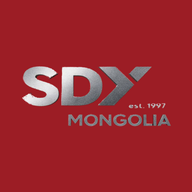
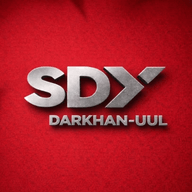
feat(sdy): SDY Darkhan-Uul mark and a red, edge-to-edge member app
- New mark: brand/sdy-darkhan-uul.jpg is the source; logo, icons and the
  maskable icon are square crops centred on the lettering, and the wordmark
  is the silver lettering keyed off the red onto transparency. Same file
  names, so BRAND_* settings are unchanged.
- Member app and sign-in palette: graphite neutrals with the logo red as the
  one accent, in light and dark (white on the dark-mode red is 4.6:1). The
  Tailwind tokens resolve to these variables, so every member screen follows.
- Layout: the sidebar sits against the window instead of floating inside a
  centred 1536px column; content grows from 720px to 960px (>=1440) and
  1120px (>=1680) while forms keep 720px; organisation cards are a
  two-column grid with the current branch marked.
- Header: red top rule and the mark as a 40px tile; the name truncates to one
  line on phones instead of wrapping to three.
- Sign-in instruction text is muted rather than accent, which read as an
  error once the accent became red.

diff --git a/frontend/components/membership/member.css b/frontend/components/membership/member.css
@@ -1,20 +1,27 @@
 /* Gerege Design Research 00/08/11/14: touch controls 44, form width 720,
-   card padding 16/24, radius 6/8, neutral surfaces and one accent. */
+   card padding 16/24, radius 6/8, neutral surfaces and one accent.
+   SDY: the accent is the red of the SDY Darkhan-Uul mark (#9c1d25 family) and
+   the neutrals are graphite rather than the platform's navy, so the member
+   app reads as the union's own rather than as the platform underneath. The
+   Tailwind tokens (accent, surface, line, muted…) resolve to these variables,
+   so every member screen follows without touching its markup. */
 .sdy-member-shell {
-  --gerege-bg: hsl(0 0% 100%);
+  --gerege-bg: hsl(240 5% 98%);
   --gerege-surface: hsl(0 0% 100%);
-  --gerege-surface-2: hsl(210 40% 96%);
-  --gerege-chrome: hsl(210 40% 98%);
-  --gerege-fg: hsl(222 47% 11%);
-  --gerege-muted: hsl(215 19% 35%);
-  --gerege-fg-subtle: hsl(215 16% 45%);
-  --gerege-border: hsl(214 32% 91%);
-  --gerege-border-input: hsl(215 16% 55%);
-  --gerege-blue: hsl(238 50% 49%);
+  --gerege-surface-2: hsl(240 5% 95%);
+  --gerege-chrome: hsl(0 0% 100%);
+  --gerege-fg: hsl(240 10% 10%);
+  --gerege-muted: hsl(240 4% 34%);
+  --gerege-fg-subtle: hsl(240 4% 44%);
+  --gerege-border: hsl(240 6% 89%);
+  --gerege-border-input: hsl(240 4% 55%);
+  --gerege-blue: hsl(356 72% 40%);
   --gerege-on-blue: hsl(0 0% 100%);
-  --gerege-blue-soft: hsl(232 100% 97%);
-  --gerege-ring: hsl(238 55% 58%);
-  --gerege-surface-hover: hsl(210 40% 96%);
+  --gerege-blue-soft: hsl(356 85% 96%);
+  --gerege-ring: hsl(356 72% 46%);
+  --gerege-surface-hover: hsl(240 5% 95%);
+  --sdy-silver: linear-gradient(180deg, hsl(220 10% 96%), hsl(220 6% 72%));
+  --sdy-sidebar-w: 264px;
   --sdy-text-caption: .75rem;
   --sdy-text-body: .875rem;
   --sdy-text-body-line: 1.5rem;
@@ -38,6 +45,8 @@
 .sdy-signin .signin-shell__nav { min-height:56px; padding:8px 24px; }
 .sdy-signin button { min-height:44px; border-radius:6px; }
 .sdy-signin .signin-btn--eid { color:var(--gerege-on-blue); }
+/* Instructions in the accent colour read as an error once the accent is red. */
+.sdy-signin .signin-instruction { color:var(--gerege-muted); }
 .sdy-signin .admin-login input { background:var(--gerege-surface); color:var(--gerege-fg); font-size:1rem; min-height:44px; }
 .sdy-signin .admin-login label { border-color:var(--gerege-border-input); border-radius:6px; }
 .sdy-signin .admin-login button { background:var(--gerege-surface); color:var(--gerege-fg); border:1px solid var(--gerege-border-input); }
@@ -47,36 +56,50 @@
 .sdy-signin :is(button,input,a):focus-visible { outline:2px solid var(--gerege-ring); outline-offset:2px; box-shadow:0 0 0 2px var(--gerege-bg); }
 @media(max-width:640px) { .sdy-signin .signin-shell__body { padding:24px 16px; } .sdy-signin .signin-card { padding:16px; } .sdy-signin .signin-shell__nav { padding-inline:16px; } }
 .dark .sdy-member-shell {
-  --gerege-bg: hsl(229 50% 6%); --gerege-chrome: hsl(222 47% 9%);
-  --gerege-surface: hsl(222 47% 11%); --gerege-surface-2: hsl(217 33% 13%);
-  --gerege-fg: hsl(210 40% 98%); --gerege-muted: hsl(213 27% 84%);
-  --gerege-fg-subtle: hsl(215 20% 65%); --gerege-border: hsl(217 33% 17%);
-  --gerege-border-input: hsl(215 16% 45%); --gerege-blue: hsl(238 60% 67%);
-  --gerege-on-blue: hsl(229 50% 6%); --gerege-blue-soft: hsl(238 50% 16%);
-  --gerege-ring: hsl(238 60% 67%); --gerege-surface-hover: hsl(217 33% 17%); color-scheme: dark;
+  --gerege-bg: hsl(240 6% 6%); --gerege-chrome: hsl(240 5% 8%);
+  --gerege-surface: hsl(240 5% 10%); --gerege-surface-2: hsl(240 4% 14%);
+  --gerege-fg: hsl(0 0% 97%); --gerege-muted: hsl(240 5% 76%);
+  --gerege-fg-subtle: hsl(240 4% 63%); --gerege-border: hsl(240 4% 18%);
+  --gerege-border-input: hsl(240 4% 42%); --gerege-blue: hsl(356 70% 52%);
+  --gerege-on-blue: hsl(0 0% 100%); --gerege-blue-soft: hsl(356 45% 15%);
+  --gerege-ring: hsl(356 80% 62%); --gerege-surface-hover: hsl(240 4% 14%); color-scheme: dark;
 }
-.sdy-member-header { position: sticky; top: 0; z-index: var(--z-sticky); display: flex; align-items: center; gap: 24px; min-height: 56px; padding: env(safe-area-inset-top) 24px 0; border-bottom: 1px solid var(--gerege-border); background: var(--gerege-bg); }
+.sdy-member-header { position: sticky; top: 0; z-index: var(--z-sticky); display: flex; align-items: center; gap: 24px; min-height: 64px; padding: env(safe-area-inset-top) 24px 0; border-top: 3px solid hsl(356 72% 40%); border-bottom: 1px solid var(--gerege-border); background: var(--gerege-chrome); }
 .sdy-member-header button,.sdy-member-header [role="menuitem"] { min-height: 44px; min-width: 44px; }
 .sdy-member-brand { display: flex; align-items: center; gap: 12px; min-width: 0; min-height: 44px; }
-.sdy-member-brand img { object-fit: contain; flex-shrink: 0; }
-.sdy-member-brand strong,.sdy-member-brand small { display: block; line-height: 1.25rem; }
-.sdy-member-brand strong { font-weight: 600; }
+.sdy-member-brand img { width: 40px; height: 40px; object-fit: cover; flex-shrink: 0; border-radius: 8px; box-shadow: 0 0 0 1px hsl(0 0% 0% / 8%); }
+.sdy-member-brand > span { min-width: 0; }
+.sdy-member-brand strong,.sdy-member-brand small { display: block; line-height: 1.25rem; overflow: hidden; text-overflow: ellipsis; white-space: nowrap; }
+.sdy-member-brand strong { font-weight: 700; letter-spacing: -.01em; }
 .sdy-member-brand small { color: var(--gerege-muted); font-size: var(--sdy-text-caption); }
 .sdy-header-organisation { display: flex; align-items: center; gap: 8px; min-width: 0; margin-left: auto; color: var(--gerege-muted); }
 .sdy-header-organisation span { overflow: hidden; text-overflow: ellipsis; white-space: nowrap; }
 .sdy-header-organisation svg { width: 16px; height: 16px; flex-shrink: 0; }
-.sdy-member-layout { display: flex; max-width: 1536px; margin-inline: auto; min-height: calc(100dvh - 56px); }
-.sdy-member-sidebar { position: sticky; top: 56px; display: flex; flex-direction: column; gap: 8px; flex: 0 0 240px; align-self: flex-start; height: calc(100dvh - 56px); padding: 24px 16px; background: var(--gerege-chrome); border-right: 1px solid var(--gerege-border); }
-.sdy-nav-caption { margin: 8px 8px 0; font-size: var(--sdy-text-caption); color: var(--gerege-muted); }
-.sdy-member-sidebar nav { display: grid; gap: 8px; margin-bottom: 16px; }
-.sdy-member-sidebar a { display: flex; align-items: center; gap: 8px; min-height: 44px; padding: 8px; border-radius: 6px; }
+.sdy-member-layout { display: flex; min-height: calc(100dvh - 67px); }
+.sdy-member-sidebar { position: sticky; top: 67px; display: flex; flex-direction: column; gap: 4px; flex: 0 0 var(--sdy-sidebar-w); align-self: flex-start; height: calc(100dvh - 67px); overflow-y: auto; padding: 20px 16px; background: var(--gerege-chrome); border-right: 1px solid var(--gerege-border); }
+.sdy-nav-caption { margin: 12px 8px 4px; font-size: .6875rem; line-height: 1rem; font-weight: 600; letter-spacing: .06em; text-transform: uppercase; color: var(--gerege-fg-subtle); }
+.sdy-member-sidebar nav { display: grid; gap: 2px; margin-bottom: 12px; }
+.sdy-member-sidebar a { display: flex; align-items: center; gap: 10px; min-height: 44px; padding: 8px 12px; border-radius: 6px; transition: background-color 120ms ease-out, color 120ms ease-out; }
 .sdy-member-sidebar svg { width: 16px; height: 16px; flex-shrink: 0; color: var(--gerege-muted); }
 .sdy-member-sidebar a:hover { background: var(--gerege-surface-2); }
-.sdy-member-sidebar a[aria-current="page"] { color: var(--gerege-blue); background: var(--gerege-blue-soft); box-shadow: inset 3px 0 var(--gerege-blue); font-weight: 500; }
+.sdy-member-sidebar a[aria-current="page"] { color: var(--gerege-blue); background: var(--gerege-blue-soft); box-shadow: inset 3px 0 var(--gerege-blue); font-weight: 600; }
 .sdy-member-sidebar a[aria-current="page"] svg { color: currentColor; }
 .sdy-appearance { margin-top: auto; }
-.sdy-member-main { flex: 1; min-width: 0; padding: 24px 32px 48px; }
+.sdy-member-main { flex: 1; min-width: 0; padding: 32px 40px 56px; }
 .sdy-member-main > div { max-width: 720px; margin-inline: auto; }
+@media(min-width:1440px) {
+  .sdy-member-main > div,.sdy-member-main > div[class~="max-w-[720px]"] { max-width: 960px; }
+  .sdy-member-main form { max-width: 720px; }
+}
+@media(min-width:1680px) {
+  .sdy-member-main > div,.sdy-member-main > div[class~="max-w-[720px]"] { max-width: 1120px; }
+}
+.sdy-member-main section.rounded-lg,.sdy-member-main .rounded-xl.border { transition: border-color 120ms ease-out, box-shadow 120ms ease-out; }
+.sdy-member-main section.rounded-lg:hover { border-color: color-mix(in oklab, var(--gerege-blue) 30%, var(--gerege-border)); }
+.sdy-org-grid { display: grid; gap: 16px; }
+@media(min-width:1024px) { .sdy-org-grid { grid-template-columns: repeat(2, minmax(0, 1fr)); } }
+.sdy-member-main .sdy-org-current { border-color: color-mix(in oklab, var(--gerege-blue) 45%, var(--gerege-border)); box-shadow: inset 3px 0 var(--gerege-blue); }
+.sdy-member-main .sdy-org-enter:hover:not(:disabled) { border-color: var(--gerege-blue); color: var(--gerege-blue); background: var(--gerege-blue-soft); }
 .sdy-member-main h1 { font-size: var(--sdy-text-title); line-height: var(--sdy-text-title-line); font-weight: 600; overflow-wrap: anywhere; }
 .sdy-member-main h2 { font-size: 1rem; line-height: 1.5rem; font-weight: 600; }
 .sdy-member-main strong { font-weight: 600; }

diff --git a/frontend/app/member/page.tsx b/frontend/app/member/page.tsx
@@ -71,11 +71,11 @@ export default function MemberHome() {
     <p className="text-xs text-muted tabular-nums">{t("membership.updated", { time: updated })}</p>
     {error && <Banner tone="error" message={error} />}
     {notice && <p role="status" className="rounded-xl border border-success-border bg-success-soft p-4 text-success">{notice}</p>}
-    {workspaces.map(org => <section key={org.id} className="rounded-lg border border-line bg-surface p-4 sm:p-6">
+    {workspaces.length > 0 && <div className="sdy-org-grid">{workspaces.map(org => <section key={org.id} className={`rounded-lg border border-line bg-surface p-4 sm:p-6${org.id === me.tenant_id ? " sdy-org-current" : ""}`}>
       <p className="mb-2 flex items-center gap-2 text-xs text-muted"><Building2 className="h-4 w-4" />{t(data.record.memberships.some(m => m.tenant_id === org.id && m.is_primary) ? "membership.record.primary" : "membership.record.other_access")}</p><h2 className="font-semibold">{org.name}</h2>
       {org.id === me.tenant_id ? <p className="mt-2 flex items-center gap-2 text-sm text-success"><CheckCircle2 className="h-4 w-4" />{t("membership.current")}</p>
-        : <button disabled={busy} onClick={() => void enter(org.id)} className="mt-3 min-h-11 rounded-md border border-input px-4 text-foreground disabled:opacity-50">{t("membership.open")}</button>}
-    </section>)}
+        : <button disabled={busy} onClick={() => void enter(org.id)} className="sdy-org-enter mt-3 min-h-11 rounded-md border border-input px-4 text-foreground disabled:opacity-50">{t("membership.open")}</button>}
+    </section>)}</div>}
     {me.workspace_kind === "organisation" && <section className="space-y-4">
       <h2>{t("membership.my_activity")}</h2>
       <div className="sdy-action-list">{[
